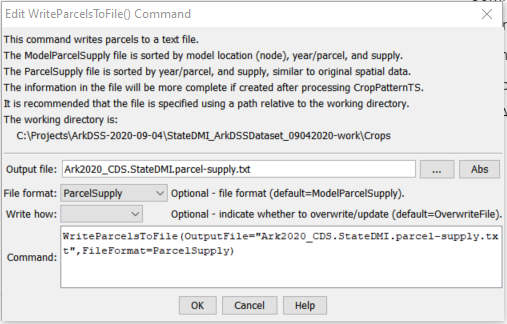
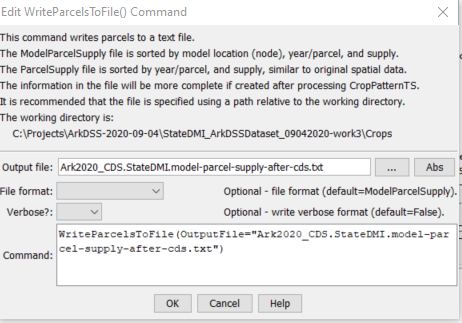
Update for StateDMI 5.00.07 release.

diff --git a/mkdocs-project/docs/command-ref/WriteParcelsToFile/WriteParcelsToFile.md b/mkdocs-project/docs/command-ref/WriteParcelsToFile/WriteParcelsToFile.md
@@ -14,7 +14,7 @@
 ## Overview ##
 
 The `WriteParcelsToFile` command (for StateCU and StateMod) writes parcels and related supply data text file report.
-The report files are large and verbose and are useful to verify dataset configuration and troubleshoot errors.
+The report files are large and detailed and are useful to verify dataset configuration and troubleshoot errors.
 If warnings are shown for the command, search the file for `ERROR` to find specific errors.
 
 The model location, parcel and water supply data model is created using the
@@ -23,6 +23,7 @@ The model location, parcel and water supply data model is created using the
 ### Parcel Supply Format ###
 
 The following is an example of the `ParcelSupply` report format, which is organized from parcel perspective.
+The data should closely match the original irrigated lands assessment spatial data.
 
 ```
 #> ***************************************************************************************************
@@ -101,6 +102,18 @@ The CDS information is only complete after running the
 [`ReadCropPatternTSFromParcels`](../ReadCropPatternTSFromParcels/ReadCropPatternTSFromParcels.md) command.
 
 ```
+#HeaderRevision 0
+#
+# File generated by...
+# program:      StateDMI 5.00.07.dev (2021-01-31)
+# user:         sam
+# date:         Mon Feb 01 01:04:36 America/Denver 2021
+# host:         RoaringFork
+# directory:    C:\Projects\ArkDSS-2020-09-04\StateDMI_ArkDSSDataset_09042020-work3\Crops
+# command line: StateDMI
+#  -home test\operational\CDSS
+#------------------------------------------------
+#>
 #> ***************************************************************************************************
 #>  StateDMI Model / Parcel / Supply File - this is a diagnostics report
 #>  - this report shows the relationships between a parcel and supplies for the parcel
@@ -127,45 +140,60 @@ The CDS information is only complete after running the
 #>  --------------------------------------------------------------------------------------------------
 #>  Year         :  Calendar year for parcel
 #>  ParcelId     :  Parcel identifier
+#>  Div          :  Water division (irrigated lands assessments are typically performed for a division)
+#>  Dist         :  Water district
 #>  Crop         :  Crop type for parcel (1 crop per parcel)
 #>  ParcelArea   :  Parcel area for crop
 #>  Units        :  Area units
 #>  IrrigMeth    :  Irrigation method
 #>
-#>  Whether or not the row of data is included - need to expand this to indicate how included or not
+#>  Data Source/Use - whether or not the row of data is included in the CDS file
 #>  --------------------------------------------------------------------------------------------------
-#>  In CDS:      :  Indicates whether the parcel is included in CDS file acreage.
-#>                  This will only be set after running 'ReadCropPatternTSFromParcels' command.
-#>                  CDS:YES = include parcel area in CDS file
-#>                  - a parcel with surface water supply - area for parcel is always included
-#>                  - a parcel with only groundwater supply
-#>                  CDS:NO = do not include parcel area in CDS file
-#>                  - if GW supply, only include parcel area if no surface water supply
-#>                  CDS:ERR = error determining whether to include parcel area in CDS FILE (input error)
-#>                  CDS:UNK = unknown whether to include parcel area in CDS FILE (should not happen)
-#>                  - will have this value until crop pattern time series are processed
-#>  DataSrc      :  Data source for the supply data
-#>                  - typically from HydroBase but may enable user-supplied data
-#>                  - may in the future be read directly from GIS or other files
-#>                  HB-PUTS = HydroBase ParcelUseTS/Structure from vw_CDSS_ParcelUseTSStructureToParcel (diversions)
-#>                  HB-WTP = HydroBase Well/Parcel from vw_CDSS_WellsWellToParcel (wells)
-#>                  SET = data are provided with Set...() or Read...() command
-#>  CDS LocId    :  The StateCU location (or StateMod) ID where the parcel area is counted for CDS file. 
-#>                  - DIV or D&W identifier if surface water supply. 
-#>                  - WEL if groundwater supply only. 
-#>  CDS LocType  :  Type node type for CDS LocId, to help understand. 
+#>  Include in CDS :  Indicates whether the parcel is included in CDS file acreage for the LocId.
+#>                    This will only be set after running 'ReadCropPatternTSFromParcels' command.
+#>                    CDS:YES = include parcel area in CDS file based on irrigated acreage parcel assignment
+#>                    - YES if a parcel with surface water supply - area for parcel is always included
+#>                    - YES if a parcel with only groundwater supply and model node is a WEL
+#>                    - a parcel can have CDS:YES for surface water supplies or groundwater supplies, but not both
+#>                    CDS:NO = do not include parcel area in CDS file based on irrigated acreage parcel assignment
+#>                    - NO if GW supply but parcel also has surface water supply
+#>                      - if GW only suppply WEL node, a D&W model node will include the area
+#>                    CDS:ERR = error determining whether to include parcel area in CDS FILE (input error)
+#>                    CDS:UNK = unknown whether to include parcel area in CDS FILE (should not happen)
+#>                    - will have this value until crop pattern time series are processed by
+#>                      ReadCropPatternTSFromParcels or SetCropPatternTSFromParcels commands for location
+#>  DataSrc        :  Data source for the supply data
+#>                    - typically from HydroBase but may enable user-supplied data
+#>                    - may in the future be read directly from GIS or other files
+#>                    HB-PUTS = HydroBase ParcelUseTS/Structure from vw_CDSS_ParcelUseTSStructureToParcel (diversions)
+#>                    HB-WTP = HydroBase Well/Parcel from vw_CDSS_WellsWellToParcel (wells)
+#>                    SET = data are provided with SetParcelSurfaceWaterSupply() or SetParcelGroundWaterSupply() commands
+#>  CDS LocId      :  The StateCU location (or StateMod) ID where the parcel area is counted for CDS file. 
+#>                    - DIV or D&W identifier if parcel has surface water supply. 
+#>                    - WEL identifier if parcel has groundwater supply only. 
+#>                    - ??? if the parcel has not been associated with a model location via ReadCropPatternTSFromParcels, 
+#>                      such as when SetCropPatternTS*() commands are used to assign data at the end of processing.
+#>  CDS LocId Type :  Type node type for CDS LocId, to confirm data processing. 
+#>                    - should match the model node location type
+#>                    - ??? if the parcel has not been associated with a model location via ReadCropPatternTSFromParcels, 
+#>                      such as when SetCropPatternTS*() commands are used to assign data at the end of processing.
+#>  LocId has Set  :  Whether LocId has a SetCropPatternTS*() command - will override any parcel data in this file in output. 
+#>                 :  - will override any parcel data in this file in output. 
+#>                 :  - if CDS:UNK, LocId CDS data may be set by one or more StateDMI set commands. 
 #>
 #>  SW Collection Data - surface water aggregate/system data
 #>  --------------------------------------------------------------------------------------------------
-#>  SWPartType   :  Surface water supply part type (only Ditch is allowed).
-#>  SWPartIdType :  Surface water supply part ID type (only WDID is allowed).
+#>  SW Collect WDID :  The WDID of the diversion collection part.
+#>                     - If a WEL, blank (see the LocId for the location WDID).
+#>                     - If a D&W, the collection part ID, mus be a WDID.
 #>
 #>  SW Supply Data - portion of parcel acreage associated with surface water supply
 #>  --------------------------------------------------------------------------------------------------
-#>  #Ditch       :  Number of ditches that are associated with the parcel.
+#>  #Dit         :  Number of ditches that are associated with the parcel.
+#>  WDID         :  Surface water supply ditch WDID.
 #>  Irrig Frac   :  1/#Ditch = fraction of ParcelArea (from above) that is irrigated by the ditch (0.0 to 1.0).
 #>  Irrig FracHB :  SWFrac from HydroBase, should match SWFrac.
-#>  SWIrrigArea  :  ParcelArea * %Irrig = area irrigated by surface water supply for this ditch.
+#>  Irrig Area   :  ParcelArea * %Irrig = area irrigated by surface water supply for this ditch.
 #>  HBError      :  Indicates whether the SWFrac computed from data is different than SWFracHB from HydroBase
 #>                   ERROR - indicates that not all supplies in HydroBase parcel data are being modeled
 #>                           due to different number of ditches associated with the parcel.
@@ -175,13 +203,15 @@ The CDS information is only complete after running the
 #>                   Blank indicates that model dataset and HydroBase data agree.
 #>
 #>  GW Collection Data - groundwater aggregate/system data
+#>    - the collection part ID (WDID or receipt) is the same as the parcel supply ID
 #>  --------------------------------------------------------------------------------------------------
-#>  GWPartType   :  Water supply part type (Well or Parcel, the latter being phased out).
-#>                  WellInDitch = indicates a collection of ditches, with associated wells determined.
-#>                                automatically based well -> parcel -> ditch relationship.
-#>                  Well = indicates a collection of wells specified using well identifiers.
-#>                  Parcel = indicates a collection of wells specified using parcel identifiers.
-#>  GWPartIdType :  Water supply part ID type (WDID or RECEIPT).
+#>  GWPart Type  :  Water supply part type (Well or Parcel, the latter being phased out).
+#>                  WellInDitch = indicates a collection of ditches (D&W)
+#>                  - associated wells are determined automatically based well -> parcel -> ditch relationship.
+#>                  - the assoicated ditch is either the locId if single ditch or see previous SW supply line.
+#>                  Well = indicates a collection of wells (WEL) specified using well identifiers.
+#>                  Parcel = indicates a collection of wells (WEL) specified using parcel identifiers.
+#>  GWPart IdType:  Water supply part ID type (WDID or RECEIPT).
 #>                  If GWPartType=Well:
 #>                     WDID - supply well has a WDID
 #>                     RECEIPT - supply well has a well permit receipt for identifier.
@@ -193,32 +223,31 @@ The CDS information is only complete after running the
 #>  GW Supply Data - portion of parcel acreage associated with groundwater supply
 #>  --------------------------------------------------------------------------------------------------
 #>  #Wells       :  Number of wells that are associated with ParcelId.
-#>  GWIrrigArea  :  ParcelArea/#Wells, zero if area is already assigned to surface water ID for D&W node.
+#>  Irrig Frac   :  1/#Wells = fraction of ParcelArea (from above) that is irrigated by the well (0.0 to 1.0).
+#>  D&W Frac     :  Same as D&W Irrig Frac, applied when well supply is supplemental to ditch.
+#>  Irrig Area   :  ParcelArea * Irrig Frac (* D&W Frac), zero if parcel has surface water supply for D&W node.
 #>
-#>-------- Model Id ---------|-------------------------- Parcel Data ------------------------||-------- Data Source/Use --------- ||---- SW Collection Data ----|------------ SW Suppply Data -----------|------------- GW Collection Data ----------| GW Supply Data |
-#>           Loc  Collection |       Parcel                          Parcel          Irrig   ||                    CDS        Loc ||  SWPart   SWPartId         |#     Irrig   Irrig    Irrig            |   GWPart      GWPart                      |#     GW        |
-#>  LocId    Type Type       |Year   ID                Crop          Area     Units  Method  || CDS?     DataSrc   LocId      Type||  Type     Type       WDID  |Ditch Frac    FracHB   Area      HBError|    Type       IdType     WDID     Receipt |Well  IrrigArea |
-#>b--------exb--exb---------exb--exb--------exb------------------exb--------exb--exb--------exb------exb--------exb----------exb--exb--------exb------exb------exb--exb------exb------exb--------eb-----exb----------exb--------exb------exb--------exb--exb---------ex
+#>-------- Model Id ---------|------------------------------- Parcel Data -----------------------------||----------- Data Source/Use ------------- ||            Collections use WDID Parts              |          WEL Collection Part ID is the same as GW Supply ID       |
+#>                           |                                                                         || Include                    CDS     LocId || SW     |-------------- SW Supply Data -------------|----------- GW Collection Data ---------|----- GW Supply Data -----|
+#>           Loc  Collection |       Parcel                                    Parcel          Irrig   || in               CDS       LocId   has   || Collect|#     Ditch  Irrig Irrig   Irrig           |   GWPart    GWPart    Well     Well    |#    Irrig D&W     Irrig  |
+#>  LocId    Type Type       |Year   ID        Div Dist        Crop            Area     Units  Method  || CDS?    DataSrc  LocId     Type    Set   || WDID   |Dit   WDID   Frac  FracHB  Area     HBError|    Type     IdType    WDID     Receipt |Well Frac  Frac    Area   |
+#>b--------exb--exb---------exb--exb--------exb--exb--exb------------------exb--------exb--exb--------exb------exb------exb----------exb--exb------exb------exb-exb------exb---exb---exb--------exb-----exb----------exb-----exb------exb--------exb--exb---exb---exb-------ex
 #>EndHeader
 #>
-1000504      DIV  Single      1975 21012133   GRASS_PASTURE            39.303 acre FLOOD     
-                                                                                              CDS:YES  HB-PUTS    1000504      DIV  Ditch      WDID     1000504     1    1.000    1.000     39.303        
-1000504      DIV  Single      1998 21012719   GRASS_PASTURE            26.166 acre FLOOD     
-                                                                                              CDS:YES  HB-PUTS    1000504      DIV  Ditch      WDID     1000504     1    1.000    1.000     26.166        
-1000504      DIV  Single      2015 21023167   GRASS_PASTURE            22.138 acre FLOOD     
-                                                                                              CDS:YES  HB-PUTS    1000504      DIV  Ditch      WDID     1000504     1    1.000    1.000     22.138        
-1000567      D&W  Single      1954 21010941   GRASS_PASTURE            55.117 acre FLOOD     
-                                                                                              CDS:YES  HB-PUTS    1000567      D&W  Ditch      WDID     1000567     1    1.000    1.000     55.117        
-                                                                                              CDS:NO   HB-WTP                                                                                             WellInDitch             1005638  9080344       2      27.558
-                                                                                              CDS:NO   HB-WTP                                                                                             WellInDitch             1005639  9080345       2      27.558
-1000567      D&W  Single      1954 21010942   GRASS_PASTURE            20.477 acre FLOOD     
-                                                                                              CDS:YES  HB-PUTS    1000567      D&W  Ditch      WDID     1000567     1    1.000    1.000     20.477        
-                                                                                              CDS:NO   HB-WTP                                                                                             WellInDitch             1005638  9080344       2      10.239
-                                                                                              CDS:NO   HB-WTP                                                                                             WellInDitch             1005639  9080345       2      10.239
-1000567      D&W  Single      1954 21010945   GRASS_PASTURE            16.372 acre FLOOD     
-                                                                                              CDS:YES  HB-PUTS    1000567      D&W  Ditch      WDID     1000567     1    1.000    1.000     16.372        
-                                                                                              CDS:NO   HB-WTP                                                                                             WellInDitch             1005628  9080514       2       8.186
-                                                                                              CDS:NO   HB-WTP                                                                                             WellInDitch             1005630  9080348       2       8.186
+1000504      DIV  Single      1975 21012133      2   10 GRASS_PASTURE            39.303 acre FLOOD                                                  
+                                                                                                        CDS:YES  HB-PUTS  1000504      DIV                      1 1000504  1.000 1.000     39.303        
+1000504      DIV  Single      1998 21012719      2   10 GRASS_PASTURE            26.166 acre FLOOD                                                  
+                                                                                                        CDS:YES  HB-PUTS  1000504      DIV                      1 1000504  1.000 1.000     26.166        
+1000504      DIV  Single      2015 21023167      2   10 GRASS_PASTURE            22.138 acre FLOOD                                                  
+                                                                                                        CDS:YES  HB-PUTS  1000504      DIV                      1 1000504  1.000 1.000     22.138        
+1000567      D&W  Single      1954 21010941      2   10 GRASS_PASTURE            55.117 acre FLOOD                                                  
+                                                                                                        CDS:YES  HB-PUTS  1000567      D&W                      1 1000567  1.000 1.000     55.117        
+                                                                                                        CDS:NO   HB-WTP                                                                                   WellInDitch          1005638  9080344       2 0.500 1.000    27.558
+                                                                                                        CDS:NO   HB-WTP                                                                                   WellInDitch          1005639  9080345       2 0.500 1.000    27.558
+1000567      D&W  Single      1954 21010942      2   10 GRASS_PASTURE            20.477 acre FLOOD                                                  
+                                                                                                        CDS:YES  HB-PUTS  1000567      D&W                      1 1000567  1.000 1.000     20.477        
+                                                                                                        CDS:NO   HB-WTP                                                                                   WellInDitch          1005638  9080344       2 0.500 1.000    10.239
+                                                                                                        CDS:NO   HB-WTP                                                                                   WellInDitch          1005639  9080345       2 0.500 1.000    10.239
 ```
 
 ## Command Editor ##
@@ -248,7 +277,7 @@ Command Parameters
 | --------------|-----------------|----------------- |
 | `OutputFile`<br>**required** | The name of the output file to write. | None – must be specified. |
 | `FileFormat` | Output file format:<ul><li>`ModelParcelSupply` - output file contains model location, parcel, and supply data</li><li>`ParcelSupply` - output file contains parcel and supply data</li></ul> | `ModelParcelSupply` |
-| `WriteHow` | `OverwriteFile` if the file should be overwritten or `UpdateFile` if the file should be updated, resulting in the previous header being carried forward. | `OverwriteFile` |
+| `Verbose` | Whether the report should be in verbose format. `True` will show all supplies for groundwater only parcels whereas `False` will only show groundwater (well) supplies. Verbose format provides additional information that is useful for troubleshooting. | `False` |
 
 ## Examples ##
 
@@ -260,3 +289,5 @@ See the [automated tests](https://github.com/OpenCDSS/cdss-app-statedmi-test/tre
 
 * [`CheckParcels`](../CheckParcels/CheckParcels.md) command
 * [`ReadParcelsFromHydroBase`](../ReadParcelsFromHydroBase/ReadParcelsFromHydroBase.md) command
+* [`ReadCropPatternTSFromParcels`](../ReadCropPatternTSFromParcels/ReadCropPatternTSFromParcels.md) command
+* [`ReadIrrigationPracticeTSFromParcels`](../ReadIrrigationPracticeTSFromParcels/ReadIrrigationPracticeTSFromParcels.md) command

diff --git a/mkdocs-project/docs/appendix-release-notes/release-notes-05.md b/mkdocs-project/docs/appendix-release-notes/release-notes-05.md
@@ -1,5 +1,6 @@
 # StateDMI / Release Notes / Version 5 #
 
+* [Changes in Version 5.00.07](#changes-in-version-50007)
 * [Changes in Version 5.00.06](#changes-in-version-50006)
 * [Changes in Version 5.00.05](#changes-in-version-50005)
 * [Changes in Version 5.00.04](#changes-in-version-50004)
@@ -7,6 +8,21 @@
 * [Release notes for all versions](release-notes.md)
 
 ----------
+
+## Changes in Version 5.00.07 ##
+
+* ![bug](bug.png) [5.00.07] Implement changes to resolve additional issues with `*.cds` and `*.ipy`
+processing for ArkDSS dataset.  Very few differences exist when compared with previous StateDMI.
+Troubleshooting features have also been enhanced.
+* ![change](change.png) [5.00.07] Update the 
+[`ReadCropPatternTSFromHydroBase`](../command-ref/ReadCropPatternTSFromHydroBase/ReadCropPatternTSFromHydroBase.md) command
+to not warn if parcels are missing as long as
+[`SetCropPatternTS`](../command-ref/SetCropPatternTS/SetCropPatternTS.md) or
+[`SetCropPatternTSFromList`](../command-ref/SetCropPatternTSFromList/SetCropPatternTSFromList.md) commands
+provide data
+* ![change](change.png) [5.00.07] Update the 
+[`WriteParcelsToFile`](../command-ref/WriteParcelsToFile/WriteParcelsToFile.md) command to fully represent
+model node, parcel, and water supply data for troubleshooting
 
 ## Changes in Version 5.00.06 ##
 
@@ -34,7 +50,7 @@ to more clearly indicate which parameters are used with different StateDMI versi
 Also change so that `IrrigationMethod` and `SupplyType` are optional so that the
 command can be used with old or new StateDMI command files.
 * ![new](new.png) [5.00.06] Add [datastore documentation](../datastore-ref/overview.md) similar to TSTool.
-* ![new](new.png) [5.00.05] Add 
+* ![new](new.png) [5.00.06] Add 
 [`CompareIrrigationPracticeTSFiles`](../command-ref/CompareIrrigationPracticeTSFiles/CompareIrrigationPracticeTSFiles.md) command to
 streamline comparisons of different versions of files.
 

diff --git a/mkdocs-project/docs/index.md b/mkdocs-project/docs/index.md
@@ -13,7 +13,7 @@ This documentation is generally referred to as the **"User Documentation"** in c
 * [About the Open Water Foundation](#about-the-open-water-foundation)
 * [License](#license)
 * [Source Repository on GitHub](#source-repository-on-github)
-* [Release Notes](#release-notes) - **this documentation is for StateDMI version 5.00.06**
+* [Release Notes](#release-notes) - **this documentation is for StateDMI version 5.00.07**
 
 ----------------
 
